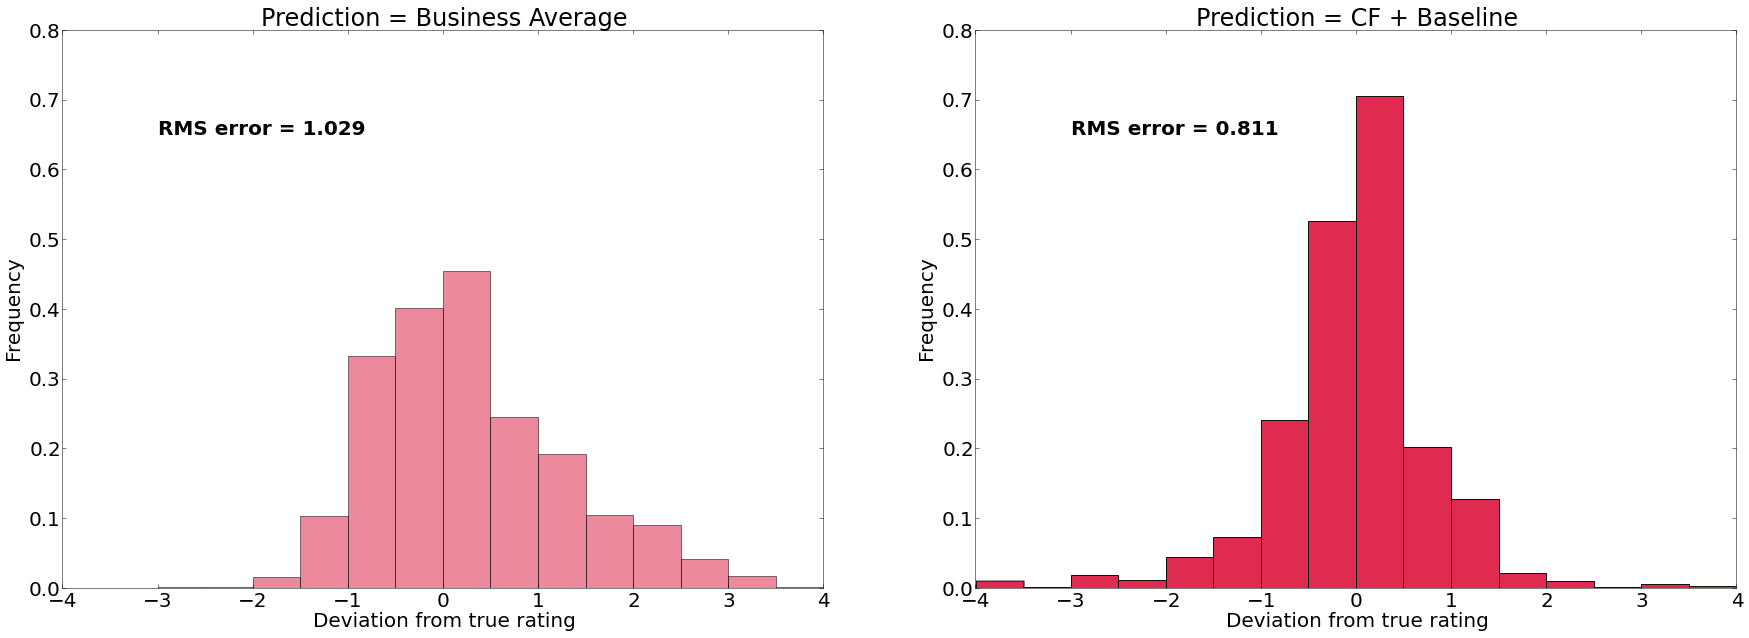
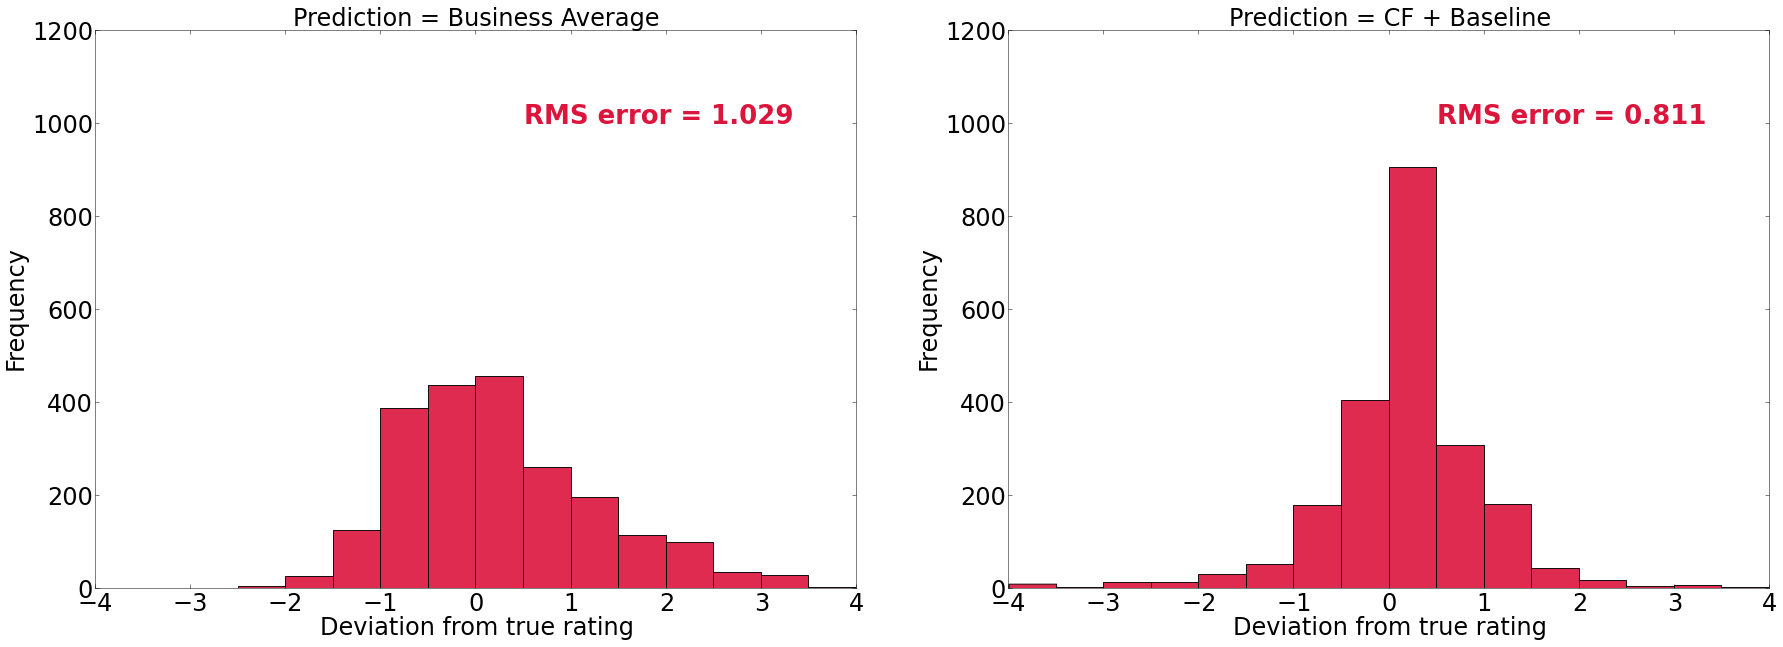
Fixed up histograms

diff --git a/templates/Cross.html b/templates/Cross.html
@@ -16,7 +16,7 @@
     </p>
 
     <h3> <center>Deviation of predictions from true ratings</center></h3><br>
-    <img src="../static/img/dev_subplot_h_pos1.png">
+    <img src="../static/img/dev_horiz_zero.png">
         
         <br><br><br><br><br><br>
     <div class = "row">
@@ -29,17 +29,12 @@
         <div class="span1">
         </div>  
         
-        <div class = "span6">
+   <!--     <div class = "span6">
             <center><h4>Deviations</h4></center><br>
             <img src="../static/img/dev_subplot_v.png" alt="RatingsHO"><br>
                 <br>
-        </div>
+        </div> -->
 
-<!--        <div class = "span6">
-            <h4> <center>Deviation: Predicted Ratings - Actual Ratings</center></h4><br>
-            <img src="../static/img/dev_subplot_2.png">
-            <br><br><br>
- -->
     </div>
     
 

diff --git a/templates/algorithm.html b/templates/algorithm.html
@@ -25,7 +25,7 @@
 
     <br>
  
-<p><a class="btn" href="/Cross">Cross Validation Results &raquo;</a></p>
+<p><a class="btn btn-large" href="/Cross">Cross Validation Results &raquo;</a></p>
     <br>
     <br>
     

diff --git a/CrossValidate.py b/CrossValidate.py
@@ -106,7 +106,7 @@ def predictRating(user_id, business_id, BReviews):
     elif predictedRating < 1:
         predictedRating = 1
 
-    return predictedRating
+    return round(2.0*predictedRating)/2
     
     
 ####################
@@ -151,26 +151,28 @@ plt.rcParams.update(params)
 #plt.figure(figsize=(12,9))
 #plt.figure(figsize=(12, 18)) 
 plt.figure(figsize=(30, 10)) 
-#bins = np.linspace(-4, 4, 17)
-bins = np.linspace(0,4,9)
+bins = np.linspace(-4, 4, 18)
+#bins = np.linspace(0,4,9)
 
 plt.subplot(121)
-plt.hist([abs(i) for i in avgDeviations], bins, alpha=.9, color='crimson')
+#plt.hist([abs(i) for i in avgDeviations], bins, alpha=.9, color='crimson')
+plt.hist(avgDeviations, bins, alpha=.9, color='crimson')
 plt.title('Prediction = Business Average',fontsize = 24)
 plt.xlabel('Deviation from true rating')
 plt.ylabel('Frequency')
 #plt.ylim([0,1])
-plt.ylim([0,1400])
-plt.text(2,1100,'RMS error = 1.029',fontweight='bold',fontsize=26, color = 'crimson')
+plt.ylim([0,1200])
+plt.text(0.5,1000,'RMS error = 1.029',fontweight='bold',fontsize=26, color = 'crimson')
 
 plt.subplot(122)
-plt.hist([abs(i) for i in deviations], bins, alpha=.9, color='crimson')
+#plt.hist([abs(i) for i in deviations], bins, alpha=.9, color='crimson')
+plt.hist(deviations, bins, alpha=.9, color='crimson')
 plt.title('Prediction = CF + Baseline',fontsize = 24)
 plt.ylabel('Frequency')
 plt.xlabel('Deviation from true rating')
 #plt.ylim([0,1])
-plt.ylim([0,1400])
-plt.text(2,1100,'RMS error = 0.811',fontweight = 'bold',fontsize = 26,color = 'crimson')
+plt.ylim([0,1200])
+plt.text(0.5,1000,'RMS error = 0.811',fontweight = 'bold',fontsize = 26,color = 'crimson')
 
 #n,bins,patches = plt.hist([[abs(i) for i in avgDeviations], [abs(j) for j in deviations]],bins,normed=1,alpha=1,histtype='step')
 #
